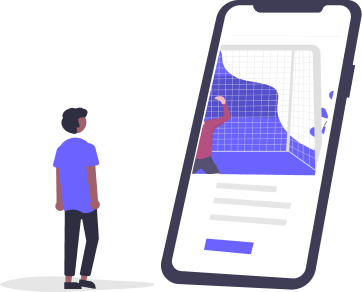
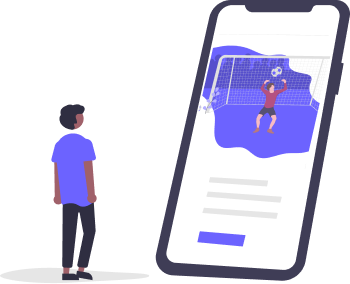
Completed Onboarding Screen

diff --git a/components/Onboarding.tsx b/components/Onboarding.tsx
@@ -1,15 +1,45 @@
-import { View, Text, FlatList } from 'react-native'
+import { View, Text, FlatList, Animated, Touchable} from 'react-native'
 import React from 'react'
-
-import slides from '@/slides';
+import { useState, useRef } from 'react';
+import slides from '../slides';
 import OnboardingItem from './OnboardingItem';
+import Paginator from './Paginator';
+import { TouchableOpacity } from 'react-native';
 
 const Onboarding =() => {
-  return (
-    <FlatList 
-    data={slides}
-    renderItem={({item}) => <OnboardingItem item = {item} otherStyles="max-h-[10px]"/>}
-    />
+
+  const [CurrentIndex, setCurrentIndex] = useState(0)
+  const scrollX = useRef(new Animated.Value(0)).current;
+  const slidesRef = useRef(null);
+  const viewableItemsChanged = useRef(({viewableItems}) => {
+    setCurrentIndex(viewableItems[0].index);
+  }).current;
+
+  const viewConfig = useRef({viewAreaCoveragePercentThreshold: 50}).current;
+  return (<View className='h-full'>
+      <FlatList 
+      data={slides}
+      renderItem={({item}) => <OnboardingItem item = {item}/>}
+      horizontal
+      showsHorizontalScrollIndicator={false}
+      pagingEnabled
+      bounces={false}
+      keyExtractor={(item) => item.id}
+      onScroll = {Animated.event([{nativeEvent:{contentOffset: { x: scrollX }}}],
+        {
+          useNativeDriver:false,
+        }
+      )}
+      scrollEventThrottle={0.1}
+      onViewableItemsChanged={viewableItemsChanged}
+      viewabilityConfig={viewConfig}
+      ref={slidesRef}
+      />
+      <Paginator data = {slides} scrollX={scrollX} /><TouchableOpacity className='justify-center items-center'
+      activeOpacity={0.5}
+      >
+      <Text className='font-osemibold justify-center items-center mb-20 text-2xl'>Skip</Text></TouchableOpacity>
+      </View>
   )
 }
 

diff --git a/tailwind.config.js b/tailwind.config.js
@@ -1,7 +1,7 @@
 /** @type {import('tailwindcss').Config} */
 module.exports = {
   // NOTE: Update this to include the paths to all of your component files.
-  content: ["./app/**/*.{js,jsx,ts,tsx}"],
+  content: ["./app.{js,jsx,ts,tsx}", "./components/**/*.{js,jsx,ts,tsx}"],
   presets: [require("nativewind/preset")],
   theme: {
     extend: {
@@ -22,15 +22,15 @@ module.exports = {
         },
       },
       fontFamily: {
-        pthin: ["Onest-Thin", "sans-serif"],
-        pextralight: ["Onest-ExtraLight", "sans-serif"],
-        plight: ["Onest-Light", "sans-serif"],
-        pregular: ["Onest-Regular", "sans-serif"],
-        pmedium: ["Onest-Medium", "sans-serif"],
-        psemibold: ["Onest-SemiBold", "sans-serif"],
-        pbold: ["Onest-Bold", "sans-serif"],
-        pextrabold: ["Onest-ExtraBold", "sans-serif"],
-        pblack: ["Onest-Black", "sans-serif"],
+        othin: ["Onest-Thin", "sans-serif"],
+        oextralight: ["Onest-ExtraLight", "sans-serif"],
+        olight: ["Onest-Light", "sans-serif"],
+        oregular: ["Onest-Regular", "sans-serif"],
+        omedium: ["Onest-Medium", "sans-serif"],
+        osemibold: ["Onest-SemiBold", "sans-serif"],
+        obold: ["Onest-Bold", "sans-serif"],
+        oextrabold: ["Onest-ExtraBold", "sans-serif"],
+        oblack: ["Onest-Black", "sans-serif"],
       },
     },
   },

diff --git a/app/_layout.tsx b/app/_layout.tsx
@@ -2,10 +2,36 @@ import { View, Text } from 'react-native'
 import React from 'react'
 import { Stack } from 'expo-router'
 import { StatusBar } from 'expo-status-bar'
+import { useFonts } from 'expo-font'
+import { useEffect } from 'react'
+import { SplashScreen } from 'expo-router'
 
 import "../global.css";
 
 const _layout = () => {
+    const [fontsLoaded, error] = useFonts({
+      "Onest-Black": require("../assets/fonts/Onest-Black.ttf"),
+      "Onest-Bold": require("../assets/fonts/Onest-Bold.ttf"),
+      "Onest-ExtraBold": require("../assets/fonts/Onest-ExtraBold.ttf"),
+      "Onest-ExtraLight": require("../assets/fonts/Onest-ExtraLight.ttf"),
+      "Onest-Light": require("../assets/fonts/Onest-Light.ttf"),
+      "Onest-Medium": require("../assets/fonts/Onest-Medium.ttf"),
+      "Onest-Regular": require("../assets/fonts/Onest-Regular.ttf"),
+      "Onest-SemiBold": require("../assets/fonts/Onest-SemiBold.ttf"),
+      "Onest-Thin": require("../assets/fonts/Onest-Thin.ttf"),
+    });
+    
+    useEffect(() => {
+      if (error) throw error;
+    
+      if (fontsLoaded) {
+        SplashScreen.hideAsync();
+      }
+    }, [fontsLoaded, error]);
+    
+    if (!fontsLoaded && !error) {
+      return null;
+    }
   return (
     <Stack>
       <Stack.Screen name="index" options={{headerShown:false}}/>

diff --git a/components/Paginator.tsx b/components/Paginator.tsx
@@ -1,0 +1,38 @@
+import { View, Animated, useWindowDimensions, StyleSheet } from 'react-native'
+import React from 'react'
+
+const Paginator = ({data, scrollX}) => {
+  const{width} = useWindowDimensions();
+
+  return (
+    <View className='flex-row h-[64px] justify-center items-center'>
+      {data.map((_,i) => {
+        const inputRange = [(i-1) * width,i * width, (i+1) * width];
+        const dotWidth = scrollX.interpolate({
+          inputRange,
+          outputRange: [10,20,10],
+          extrapolate: "clamp",
+
+        })
+        const opacity = scrollX.interpolate({
+          inputRange,
+          outputRange: [0.3,1,0.3],
+          extrapolate: "clamp",
+
+        })
+
+        return <Animated.View style={{
+          width: 70, // Fixed width
+          height: dotWidth, // Animated height
+          borderRadius: 50, // Rounded for circular dots
+          backgroundColor: '#7C63EF', // Replace 'blue' with the actual color code
+          marginHorizontal: 8,
+          opacity,
+        }}
+         key={i.toString()} />;
+      })}
+    </View>
+  )
+}
+
+export default Paginator

diff --git a/components/OnboardingItem.tsx b/components/OnboardingItem.tsx
@@ -1,15 +1,20 @@
 import { View, Text, Image, useWindowDimensions} from 'react-native'
 import React from 'react'
+import { SafeAreaView } from 'react-native'
 
-const OnboardingItem = ({item, otherStyles}) => {
+const OnboardingItem = ({item}) => {
     const {width} = useWindowDimensions()
     return (
-        <View className='w-width'>
+        <SafeAreaView style={{ width }}>
+            <View style={{ width }} className={` h-full flex-[1] justify-center items-center`}>
             <Image
-            source={item.image} className={`${otherStyles} h-[10px]`}
+            source={item.image} className={`flex-[0.6]`} resizeMode='contain'
             />
-            <View className='flex-[0.3]'><Text className={`${otherStyles}`}>{item.title}</Text></View>
-        </View>
+            <View style={{ width }} className={`flex-[0.4] items- px-7 items-start `}>
+                <Text style={{ width }} className={`font-osemibold text-[37px]`}>{item.title}</Text>
+                </View>
+                </View>
+        </SafeAreaView>
     )
     }
 

diff --git a/slides.js b/slides.js
@@ -9,11 +9,11 @@ export default [
         image: require('./assets/images/Motivated.png'),
     },{
         id:'3',
-        title: "Discover local sporting events.",
+        title: "Discover local  sporting events.",
         image: require('./assets/images/Discover.png'),
     },{
         id:'4',
-        title:'Be part of a community',
+        title:'Be part of a community.',
         image: require('./assets/images/Community.png'),
     }
 ]

diff --git a/app/(auth)/_layout.tsx b/app/(auth)/_layout.tsx
@@ -1,0 +1,13 @@
+import { View, Text } from 'react-native'
+import React from 'react'
+import { Stack } from 'expo-router'
+
+const _layout = () => {
+  return (
+    <Stack>
+        <Stack.Screen/>
+    </Stack>
+  )
+}
+
+export default _layout

diff --git a/app/index.tsx b/app/index.tsx
@@ -12,7 +12,7 @@ export default function Index() {
   setTimeout(SplashScreen.hideAsync, 2000)
   return (
 
-        <Onboarding />
+    <Onboarding/>
 
   );
 }
